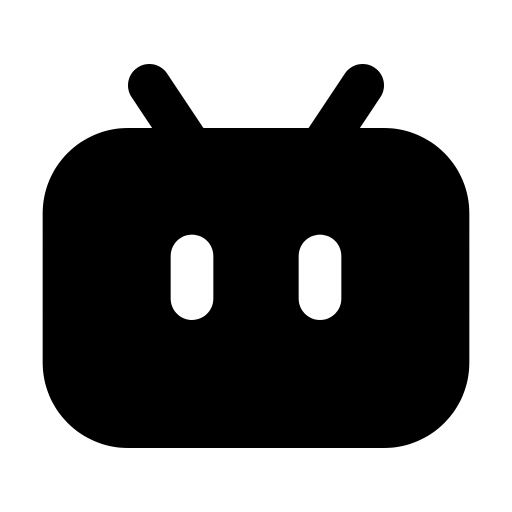
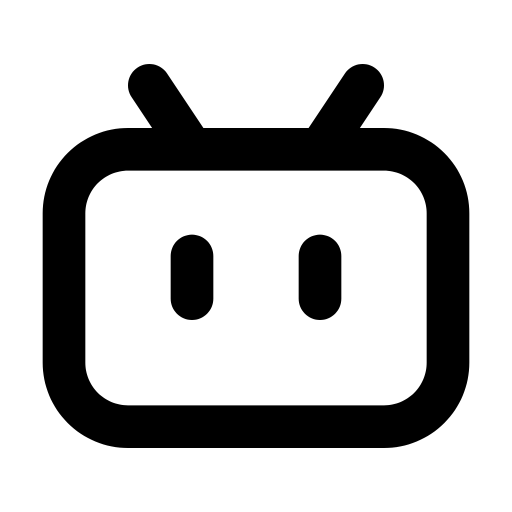
✨ feat:屏蔽UP功能；更换ICON

diff --git a/src/sidepanel/Sidepanel.vue b/src/sidepanel/Sidepanel.vue
@@ -4,39 +4,60 @@ import Button from 'primevue/button'
 import Drawer from 'primevue/drawer'
 import InputText from 'primevue/inputtext'
 import RadioButton from 'primevue/radiobutton'
-import Tag from 'primevue/tag'
 
 import { ref } from 'vue'
 
-import { blockedWords, shieldingNum, ShieldingStyle } from '~/logic/storage'
+import { blockedUPs, blockedWords, shieldingNum, ShieldingStyle } from '~/logic/storage'
 
-const value = ref('')
+const blockWord = ref('') // 屏蔽词
+const blockUP = ref('') // 屏蔽UP
+const nowBlockType = ref<0 | 1>(0) // 0 屏蔽词; 1 屏蔽UP
 
 function openOptionsPage() {
   browser.runtime.openOptionsPage()
 }
 const visible = ref(false)
 
-function addWord(input: string) {
+function addWord(input: string, type: 0 | 1) {
   const words = input
     .split(/\s+/)
     .map(w => w.trim())
     .filter(w => w.length > 0)
 
   for (const word of words) {
-    if (!blockedWords.value.includes(word)) {
-      blockedWords.value.push(word)
+    if (type === 0) {
+      if (!blockedWords.value.includes(word)) {
+        blockedWords.value.push(word)
+        blockWord.value = ''
+      }
+    }
+    if (type === 1) {
+      if (!blockedUPs.value.includes(word)) {
+        blockedUPs.value.push(word)
+        blockUP.value = ''
+      }
     }
   }
-  value.value = ''
 }
-function removeWord(word: string) {
-  blockedWords.value = blockedWords.value.filter(w => w !== word)
+
+function removeWord(word: string, type: 0 | 1) {
+  if (type === 0) {
+    blockedWords.value = blockedWords.value.filter(w => w !== word)
+  }
+  else {
+    blockedUPs.value = blockedUPs.value.filter(w => w !== word)
+  }
 }
 
 const isCopy = ref(false)
-function copyMyOptions() {
-  const text = blockedWords.value.join(' ')
+function copyMyOptions(type: 0 | 1) {
+  let text = ''
+  if (type === 0) {
+    text = blockedWords.value.join(' ')
+  }
+  else {
+    text = blockedUPs.value.join(' ')
+  }
   navigator.clipboard.writeText(text)
   isCopy.value = true
   setTimeout(() => {
@@ -44,11 +65,19 @@ function copyMyOptions() {
   }, 1000)
 }
 
-function delAll() {
-  blockedWords.value = []
+function delAll(type: 0 | 1) {
+  if (type === 0) {
+    blockedWords.value = []
+  }
+  else {
+    blockedUPs.value = []
+  }
 }
-function openDrawer() {
-  value.value = ''
+
+function openDrawer(type: 0 | 1) {
+  nowBlockType.value = type
+  blockWord.value = ''
+  blockUP.value = ''
   visible.value = true
 }
 </script>
@@ -68,8 +97,8 @@ function openDrawer() {
         </div>
       </div>
 
-      <div class="flex flex-col gap-8 mt-4">
-        <!-- #1 -->
+      <div class="flex flex-col gap-10 mt-4">
+        <!-- #1 屏蔽样式 -->
         <div class="flex gap-5">
           <div class="text-stone-900 text-0.8rem">
             屏蔽样式：
@@ -85,54 +114,89 @@ function openDrawer() {
             </div>
           </div>
         </div>
-        <!-- #2 -->
+        <!-- #2 屏蔽词 -->
         <div class="flex flex-col gap-4">
           <div class="flex items-center gap-5">
             <div class="text-stone-900 text-0.8rem">
               屏蔽词：
             </div>
             <div class="flex gap-1">
-              <InputText v-model="value" type="text" size="small" placeholder="以空格分隔" />
-              <Button label="添加" severity="contrast" size="small" @click="addWord(value)" />
+              <InputText v-model="blockWord" type="text" size="small" placeholder="以空格分隔" />
+              <Button label="添加" severity="contrast" size="small" @click="addWord(blockWord, 0)" />
             </div>
           </div>
-          <div class="flex flex-wrap gap-col-5 gap-row-2 max-h-65vh overflow-auto">
-            <Tag v-for="i in blockedWords" :key="i" severity="secondary" :value="i" />
-          </div>
           <div class="flex justify-between  gap-2">
-            <div class="flex-center text-stone-500 hover:text-stone-950 cursor-pointer" @click="openDrawer">
+            <div class="flex-center text-stone-500 hover:text-stone-950 cursor-pointer" @click="openDrawer(0)">
               <div class="i-mingcute-right-small-line text-lg" />
               屏蔽词管理
             </div>
-            <div class="flex-center gap-1 text-stone-400">
-              <span>已屏蔽</span>
-              <NumberFlow :value="shieldingNum" />
-            </div>
             <div class=" text-stone-400">
-              标题含有屏蔽词时自动屏蔽
+              标题含有屏蔽词时屏蔽
             </div>
           </div>
         </div>
+        <!-- #3 屏蔽up  -->
+        <div class="flex flex-col gap-4">
+          <div class="flex items-center gap-5">
+            <div class="text-stone-900 text-0.8rem">
+              屏蔽UP：
+            </div>
+            <div class="flex gap-1">
+              <InputText v-model="blockUP" type="text" size="small" placeholder="以空格分隔" />
+              <Button label="添加" severity="contrast" size="small" @click="addWord(blockUP, 1)" />
+            </div>
+          </div>
+          <div class="flex justify-between  gap-2">
+            <div class="flex-center text-stone-500 hover:text-stone-950 cursor-pointer" @click="openDrawer(1)">
+              <div class="i-mingcute-right-small-line text-lg" />
+              屏蔽UP管理
+            </div>
+            <div class=" text-stone-400">
+              屏蔽UP视频
+            </div>
+          </div>
+        </div>
+        <!-- #4 统计  -->
+        <div class="flex-center gap-1 text-stone-400">
+          <span>已屏蔽</span>
+          <NumberFlow :value="shieldingNum" />
+        </div>
       </div>
     </main>
+    <!-- Footer -->
     <footer>
       <span class="flex-center text-sm text-stone-400">@LsAng</span>
     </footer>
-    <Drawer v-model:visible="visible" header="屏蔽词管理" class="w-75!">
+    <!-- Drawer -->
+    <Drawer
+      v-model:visible="visible"
+      :header="nowBlockType === 0 ? '屏蔽词管理' : '屏蔽UP管理'"
+      class="w-75!"
+    >
       <div class="flex flex-col gap-5">
-        <div class="flex gap-1">
-          <InputText v-model="value" type="text" placeholder="以空格分隔" size="small" />
-          <Button label="添加" severity="contrast" size="small" @click="addWord(value)" />
+        <div v-if="nowBlockType === 0" class="flex gap-1">
+          <InputText v-model="blockWord" type="text" placeholder="以空格分隔" size="small" />
+          <Button label="添加" severity="contrast" size="small" @click="addWord(blockWord, nowBlockType)" />
+        </div>
+        <div v-if="nowBlockType === 1" class="flex gap-1">
+          <InputText v-model="blockUP" type="text" placeholder="以空格分隔" size="small" />
+          <Button label="添加" severity="contrast" size="small" @click="addWord(blockUP, nowBlockType)" />
         </div>
         <div class="mx-auto">
           <span v-if="isCopy">已复制！</span>
-          <span v-else class=" text-stone-400 hover:text-stone-600 cursor-pointer" @click="copyMyOptions">复制我的配置</span>
-          <span class="ml-2 text-stone-400 hover:text-stone-600 cursor-pointer" @click="delAll">一键删除</span>
+          <span v-else class=" text-stone-400 hover:text-stone-600 cursor-pointer" @click="copyMyOptions(nowBlockType)">复制我的配置</span>
+          <span class="ml-2 text-stone-400 hover:text-stone-600 cursor-pointer" @click="delAll(nowBlockType)">一键删除</span>
         </div>
-        <div class="flex flex-wrap gap-col-5 gap-row-2">
+        <div v-if="nowBlockType === 0" class="flex flex-wrap gap-col-5 gap-row-2">
           <div v-for="i in blockedWords" :key="i" class="flex-center gap-1 rounded-md bg-stone-100 p-1 text-0.8rem">
             <span>{{ i }}</span>
-            <div class="i-mingcute-delete-3-line hover:text-red-400" @click="removeWord(i)" />
+            <div class="i-mingcute-delete-3-line hover:text-red-400" @click="removeWord(i, nowBlockType)" />
+          </div>
+        </div>
+        <div v-else class="flex flex-wrap gap-col-5 gap-row-2">
+          <div v-for="i in blockedUPs" :key="i" class="flex-center gap-1 rounded-md bg-stone-100 p-1 text-0.8rem">
+            <span>{{ i }}</span>
+            <div class="i-mingcute-delete-3-line hover:text-red-400" @click="removeWord(i, nowBlockType)" />
           </div>
         </div>
       </div>

diff --git a/src/contentScripts/index.ts b/src/contentScripts/index.ts
@@ -1,37 +1,61 @@
 import { createApp } from 'vue'
 import { onMessage } from 'webext-bridge/content-script'
 import { setupApp } from '~/logic/common-setup'
-import { blockedWords, blockedWordsReady, shieldingNum, ShieldingStyle, ShieldingStyleReady } from '~/logic/storage'
+import {
+  blockedUPs,
+  blockedUPsReady,
+  blockedWords,
+  blockedWordsReady,
+  shieldingNum,
+  ShieldingStyle,
+  ShieldingStyleReady,
+} from '~/logic/storage'
 import App from './views/App.vue'
 
+// 判断视频标题是否包含屏蔽关键词
 function shouldBlock(title: string) {
   return blockedWords.value.some(keyword => title.includes(keyword))
 }
+
+// 判断UP主名是否在屏蔽列表中
+function shouldBlockByAuthor(author: string) {
+  return blockedUPs.value.some(name => author.includes(name))
+}
+
+// 增加被屏蔽视频数量
 function addNum() {
   shieldingNum.value++
 }
 
+// 核心：查找卡片并根据标题或作者进行屏蔽
 function hideMatchingCards() {
   const cards = document.querySelectorAll<HTMLElement>('.bili-feed-card, .video-card')
   console.log('[屏蔽逻辑] 找到卡片数:', cards.length)
+
   cards.forEach((card) => {
     if ((card as any).__blocked)
       return
 
+    // 获取标题
     const titleEl
       = card.querySelector('.bili-video-card__info--tit, .title, .bili-dyn-title')
         || card.querySelector('.video-card__info p')
     const text = titleEl?.textContent?.trim() || ''
 
-    if (titleEl && shouldBlock(text)) {
+    // 获取作者
+    const authorEl
+      = card.querySelector('.bili-video-card__info--author, .up-name__text')
+    const author = authorEl?.textContent?.trim() || ''
+
+    // 判断是否需要屏蔽
+    if ((text && shouldBlock(text)) || (author && shouldBlockByAuthor(author))) {
       const feedCard = card.closest('.feed-card') as HTMLElement | null
-      console.log('[屏蔽内容]', text)
+      console.log('[屏蔽内容]', { text, author })
       addNum()
 
       if (ShieldingStyle.value === 'Vague') {
         const el = feedCard || card
         el.style.filter = 'blur(4px) grayscale(100%) opacity(0.3)'
-        // el.style.pointerEvents = 'none'
         el.style.userSelect = 'none'
       }
       else if (ShieldingStyle.value === 'Hide') {
@@ -40,11 +64,14 @@ function hideMatchingCards() {
         else
           card.remove()
       }
+
+      // 标记已处理
       (card as any).__blocked = true
     }
   })
 }
 
+// DOM 变化监听（节流处理）
 let debounceTimer: NodeJS.Timeout | null = null
 const observer = new MutationObserver(() => {
   if (debounceTimer)
@@ -54,6 +81,7 @@ const observer = new MutationObserver(() => {
   }, 300)
 })
 
+// 启动监听器
 function startObserver() {
   console.log('[observer] 启动观察')
   const target = document.querySelector('.bili-feed4-layout') || document.body
@@ -64,6 +92,7 @@ function startObserver() {
   hideMatchingCards()
 }
 
+// 主流程启动
 (async () => {
   console.info('[vitesse-webext] Hello world from content script')
 
@@ -74,11 +103,16 @@ function startObserver() {
   // 等待 storage 数据准备完毕
   await Promise.all([
     blockedWordsReady,
+    blockedUPsReady,
     ShieldingStyleReady,
   ])
-  console.log('[数据已准备完毕]', blockedWords.value, ShieldingStyle.value)
+  console.log('[数据已准备完毕]', {
+    blockedWords: blockedWords.value,
+    blockedUPs: blockedUPs.value,
+    style: ShieldingStyle.value,
+  })
 
-  // Vue 应用挂载
+  // Vue 应用挂载（显示统计信息或设置入口）
   const container = document.createElement('div')
   container.id = __NAME__
   const root = document.createElement('div')

diff --git a/src/logic/storage.ts b/src/logic/storage.ts
@@ -5,7 +5,13 @@ export const { data: storageDemo, dataReady: storageDemoReady } = useWebExtensio
 // 屏蔽词
 export const { data: blockedWords, dataReady: blockedWordsReady } = useWebExtensionStorage<string[]>(
   'blocked-words',
-  ['广告', '低俗'],
+  [],
+)
+
+// 屏蔽UP
+export const { data: blockedUPs, dataReady: blockedUPsReady } = useWebExtensionStorage<string[]>(
+  'blocked-UPs',
+  [],
 )
 
 // 屏蔽样式
